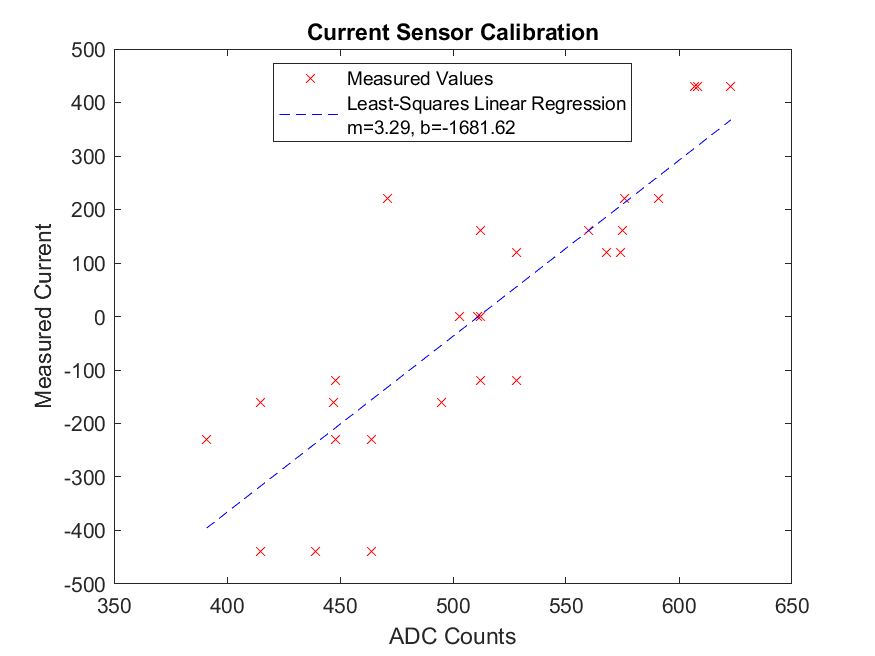
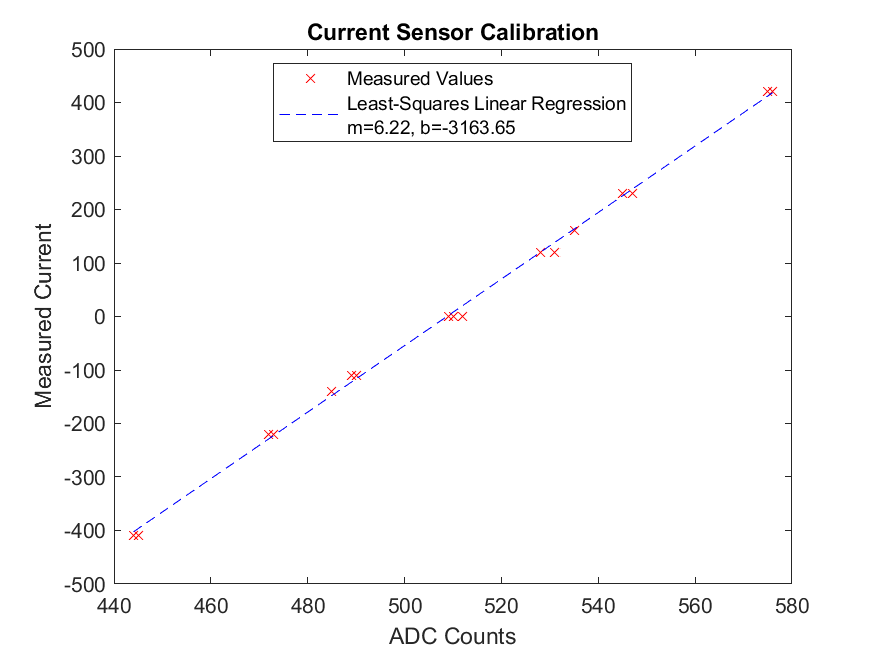
Implemented ITEST

diff --git a/motor_control_project/src/currentcontrol.c b/motor_control_project/src/currentcontrol.c
@@ -1,16 +1,25 @@
 #include "currentcontrol.h"                   
+#include "isense.h"                   
 #include "utilities.h"
 #include "NU32.h"
 #include <math.h>
 
-#define ITEST_I_REF_MAG_mA 200 
+#define ITEST_I_REFERENCE_MAG_mA 200 
+#define ITEST_ARRAY_LENGTH 100
+#define ITEST_SAMPLE_PERIOD (1.0/5000)
 
 static int PWMDutyCycleOCxRSValue = 0;
 static unsigned char PWMDutyCycleDirection = 0x0;
+
+static double proportionalGain = 0; // %/mA
+static double integralGain = 0; // %/(mA*seconds)
+static double lastError = 0; // mA
+static double integralError = 0; // mA*seconds
+
 static int ITESTCount = 0;
-static int ITESTIRefmA = ITEST_I_REF_MAG_mA;
-static double proportionalGain = 0;
-static double integralGain = 0;
+static double ITESTIReferencemA = ITEST_I_REFERENCE_MAG_mA;
+static double ITESTIActualArray[ITEST_ARRAY_LENGTH];
+static double ITESTIReferenceArray[ITEST_ARRAY_LENGTH];
 
 void __ISR(_TIMER_5_VECTOR, IPL5SOFT) Timer5ISR(void) { // INT step: the ISR
   switch (get_operating_mode())
@@ -22,28 +31,42 @@ void __ISR(_TIMER_5_VECTOR, IPL5SOFT) Timer5ISR(void) { // INT step: the ISR
       break;
     case PWM:
       // Set duty cyle to present PWM value
-      OC1RS = PWMDutyCycleOCxRSValue;
-      LATDbits.LATD1 = PWMDutyCycleDirection;
+      command_motor_pwm_and_direction();
       break;
     case ITEST:
       // PI current control test to track two full cycles of a +/- 200mA 100Hz square wave reference
-      
-      if (ITESTCount == 99) // Are done with the test
+      if (ITESTCount == 0) // Test begins
+      {
+        ITESTIReferencemA = ITEST_I_REFERENCE_MAG_mA;
+      }
+      else if (ITESTCount == 24 || ITESTCount==49 || ITESTCount==74) // Reference changes sign 
+      {
+        ITESTIReferencemA *= -1;
+      }
+
+      // Get measured current and update arrays for subsequent data processing/viz
+      double measuredCurrentmA = adc_current_sense_value_mA();
+      ITESTIReferenceArray[ITESTCount] = ITESTIReferencemA;
+      ITESTIActualArray[ITESTCount] = measuredCurrentmA;
+
+      // PI Control
+      double errmA = ITESTIReferencemA - measuredCurrentmA; // units of mA
+      integralError += errmA * ITEST_SAMPLE_PERIOD; // units of mA*seconds
+      double uEff = (errmA * proportionalGain) + (integralError * integralGain); // Control effort, proportionalGain in units of %/mA and integralGain in units of %/(mA*seconds), note % implies % duty cycle
+      // lastError = errmA; 
+
+      // Apply control effort
+      set_motor_pwm_and_direction_values(uEff);
+      command_motor_pwm_and_direction();
+
+      // Update count and see if done
+      ITESTCount++;
+      if (ITESTCount == 100) // Are done with the test
       {
         set_operating_mode(IDLE);
+        ITESTCount = 0;
         break;
       }
-
-      if (ITESTIRefmA == 0) // Test begins
-      {
-        ITESTIRefmA = ITEST_I_REF_MAG_mA;
-      }
-      else if (ITESTIRefmA == 25 || ITESTIRefmA==50 || ITESTIRefmA==75) // Reference changes sign 
-      {
-        ITESTIRefmA *= 1;
-      }
-
-      ITESTIRefmA++;
       break;
     case HOLD:
       break;
@@ -79,6 +102,12 @@ void set_motor_pwm_and_direction_values(double signed_duty_cycle)
     PWMDutyCycleOCxRSValue = (int) ((signed_duty_cycle/100) * (PR2+1));
     PWMDutyCycleDirection = 0x1;
   }
+}
+
+void command_motor_pwm_and_direction(void)
+{
+  OC1RS = PWMDutyCycleOCxRSValue;
+  LATDbits.LATD1 = PWMDutyCycleDirection;
 }
 
 void currentcontrol_init(void)
@@ -127,3 +156,19 @@ double get_current_integral_gain(void)
 {
   return integralGain;
 }
+
+double* get_ITESTIActualArray(void)
+{
+  return ITESTIActualArray;
+}
+
+double* get_ITESTIReferenceArray(void)
+{
+  return ITESTIReferenceArray;
+}
+
+int get_ITESTIArrayLength(void)
+{
+  return ITEST_ARRAY_LENGTH;
+}
+

diff --git a/motor_control_project/src/main.c b/motor_control_project/src/main.c
@@ -27,16 +27,6 @@ int main()
     NU32_ReadUART3(buffer,BUF_SIZE); // we expect the next character to be a menu command
     NU32_LED2 = 1;                   // clear the error LED
     switch (buffer[0]) {
-      // case 'd':                      
-      // {
-      //   // dummy command for demonstration purposes
-      //   int n = 0;
-      //   NU32_ReadUART3(buffer,BUF_SIZE);
-      //   sscanf(buffer, "%d", &n);
-      //   sprintf(buffer,"%d\r\n", n + 1); // return the number + 1
-      //   NU32_WriteUART3(buffer);
-      //   break;
-      // }
       case 'x':
       {
         // Add two numbers and give result
@@ -48,7 +38,7 @@ int main()
         sscanf(buffer, "%d", &n2);
         res = n1+n2;
         sprintf(buffer, "%d\r\n", res);
-        NU32_WriteUART3(buffer);
+        NU32_WriteUART3(buffer); // send to client
         break;
       }
       case 'c': 
@@ -76,15 +66,6 @@ int main()
         // Get ADC counts
         sprintf(buffer, "%d\r\n", adc_counts());
         NU32_WriteUART3(buffer); // send to client 
-
-        // sprintf(buffer, "%f\r\n", adc_voltage());
-        // NU32_WriteUART3(buffer); // send to client 
-
-        // sprintf(buffer, "%f\r\n", adc_current_sense_value_mA());
-        // NU32_WriteUART3(buffer); // send to client 
-
-        // Get averaged ADC counts
-        // NU32_WriteUART3("\r\n");
         break;
       }
       case 'b': 
@@ -99,11 +80,8 @@ int main()
         double pwm_val;
         NU32_ReadUART3(buffer,BUF_SIZE);
         sscanf(buffer, "%f", &pwm_val);
-
         set_motor_pwm_and_direction_values(pwm_val);
         set_operating_mode(PWM);
-        // sprintf(buffer, "PWM direction val is now %.3f and mode is PWM \r\n", pwm_val);
-        // NU32_WriteUART3(buffer);
         break;
       }
       case 'p': 
@@ -136,8 +114,30 @@ int main()
       case 'h': 
       {
         // Get current gains
-        sprintf(buffer, "%f %f\r\n", get_current_proportional_gain(), get_current_integral_gain());
+        sprintf(buffer, "%f\r\n", get_current_proportional_gain());
         NU32_WriteUART3(buffer); // send to client
+        sprintf(buffer, "%f\r\n", get_current_integral_gain());
+        NU32_WriteUART3(buffer); // send to client
+        break;
+      }
+      case 'k':
+      {
+        // Test current gains
+        set_operating_mode(ITEST);
+        // Wait for test to complete
+        while (get_operating_mode() != IDLE) { ; }
+        // Send results to user
+        int len = get_ITESTIArrayLength();
+        sprintf(buffer, "%d\r\n", len);
+        NU32_WriteUART3(buffer); // send to client
+        double *actual = get_ITESTIActualArray();
+        double *reference = get_ITESTIReferenceArray();
+        int i;
+        for (i=0; i < len; i++)
+        {
+          sprintf(buffer, "%f %f\r\n", reference[i], actual[i]);
+          NU32_WriteUART3(buffer); // send to client
+        }
         break;
       }
       case 'q':

diff --git a/motor_control_project/src/client.m b/motor_control_project/src/client.m
@@ -37,7 +37,8 @@ while ~has_quit
     % fprintf('     d: Dummy Command    q: Quit\n     x: Add Two Numbers Command');
     fprintf(['     q: Quit     x: Add Two Numbers Command\n     c: Read Encoder (counts)     d: Read Encoder (deg)     e: Reset Encoder\n' ...
         '     a: Read ADC (counts)     b: Read ADC Current Sense Value (mA)     f: Set Signed PWM\n' ...
-        '     p: Set mode to IDLE     r: Get current mode']);
+        '     p: Set mode to IDLE     r: Get current mode\n' ...
+        '     g: Set current control gains     h: Get current control gains     k: Test current gains\n']);
     % read the user's choice
     selection = input('\nENTER COMMAND: ', 's');
      
@@ -62,7 +63,6 @@ while ~has_quit
         case 'c'
             % Get encoder counts
             counts = fscanf(mySerial, '%d');
-            disp(counts)
             fprintf('The motor angle is %d counts.\n', counts)
         case 'e'
             % Reset encoder count to 32768
@@ -90,12 +90,25 @@ while ~has_quit
             % Get operating mode
             mode = fscanf(mySerial, '%s');
             fprintf('The operating mode is %s.\n', mode);
+        case 'g'
+            % Set current gains
+            prop_gain = input('Enter current control proportional gain: ');
+            fprintf(mySerial, '%f\n', prop_gain);
+            int_gain = input('Enter current control integral gain: ');
+            fprintf(mySerial, '%f\n', int_gain);
+        case 'h'
+            % Get current gains
+            prop_gain = fscanf(mySerial, '%f');
+            int_gain = fscanf(mySerial, '%f');
+            fprintf('Proportional gain: %.3f\nIntegral gain: %.3f\n', prop_gain, int_gain);
+        case 'k'
+            % Test current gains
+            fprintf('Running current gain test\n');
+            read_plot_matrix(mySerial);
         case 'q'
             has_quit = true;             % exit client
         otherwise
             fprintf('Invalid Selection %c\n', selection);
-        % TODO: Diagnose incoming data formatting issues, encoder and adc
-        % readings can be delayed/misformatted, need to handle this
     end
 end
 

diff --git a/motor_control_project/latex/final_project_ryandalby.tex b/motor_control_project/latex/final_project_ryandalby.tex
@@ -183,28 +183,54 @@ Calibration (input voltage )
 % \end{tabular}
 % \end{center}
 
+% \begin{center}
+% \begin{tabular}{|c|c|c|c|c|}
+%     \hline
+%     Input Voltage & R0 & Expected Current & Measured Current & ADC Counts \\
+%     \hline
+%     6V & 40 & 150 mA & 130 mA & 568 574 528 \\
+%     \hline
+%     -6V & 40 & -150 mA & -120 mA & 448 512 528\\
+%     \hline
+%     6V & 30 & 200 mA & 160 mA & 575 560 512 \\
+%     \hline
+%     -6V & 30 & -200 mA & -160 mA & 495 415 447 \\
+%     \hline
+%     6V & 20 & 300 mA & 220 mA & 591 471 576 \\
+%     \hline
+%     -6V & 20 & -300 mA & -230 mA & 391 464 448 \\
+%     \hline
+%     6V & 10 & 600 mA & 430 mA & 608 607 623 \\
+%     \hline
+%     -6V & 10 & -600 mA & -440 mA & 439 415 464 \\
+%     \hline
+%     0 V & 0 & 0 mA & 0 mA & 503 512 511 \\
+%     \hline
+% \end{tabular}
+% \end{center}
+
 \begin{center}
 \begin{tabular}{|c|c|c|c|c|}
     \hline
     Input Voltage & R0 & Expected Current & Measured Current & ADC Counts \\
     \hline
-    6V & 40 & 150 mA & 130 mA & 568 574 528 \\
+    6V & 40 & 150 mA & 120 mA & 528 531 528 \\
     \hline
-    -6V & 40 & -150 mA & -120 mA & 448 512 528\\
+    -6V & 40 & -150 mA & -110 mA & 490 489 489\\
     \hline
-    6V & 30 & 200 mA & 160 mA & 575 560 512 \\
+    6V & 30 & 200 mA & 160 mA & 535 535 535 \\
     \hline
-    -6V & 30 & -200 mA & -160 mA & 495 415 447 \\
+    -6V & 30 & -200 mA & -140 mA & 485 485 485 \\
     \hline
-    6V & 20 & 300 mA & 220 mA & 591 471 576 \\
+    6V & 20 & 300 mA & 230 mA & 545 545 547 \\
     \hline
-    -6V & 20 & -300 mA & -230 mA & 391 464 448 \\
+    -6V & 20 & -300 mA & -220 mA & 472 472 473 \\
     \hline
-    6V & 10 & 600 mA & 430 mA & 608 607 623 \\
+    6V & 10 & 600 mA & 420 mA & 576 576 576 \\
     \hline
-    -6V & 10 & -600 mA & -440 mA & 439 415 464 \\
+    -6V & 10 & -600 mA & -410 mA & 444 444 445 \\
     \hline
-    0 V & 0 & 0 mA & 0 mA & 503 512 511 \\
+    0 V & 0 & 0 mA & 0 mA & 510 509 512 \\
     \hline
 \end{tabular}
 \end{center}

diff --git a/motor_control_project/src/currentcontrol.h b/motor_control_project/src/currentcontrol.h
@@ -7,10 +7,17 @@ void currentcontrol_init(void);
 // Set the pwm duty cycle in percent and the direction based on the sign of the duty cycle value passed in. For when in 
 void set_motor_pwm_and_direction_values(double signed_duty_cycle);
 
+// Command the current pwm and direction values to the motor
+void command_motor_pwm_and_direction(void);
+
 void set_current_proportional_gain(double proportionalGainValue);
 double get_current_proportional_gain(void);
 
 void set_current_integral_gain(double integralGainValue);
 double get_current_integral_gain(void);
+
+double* get_ITESTIActualArray(void);
+
+double* get_ITESTIReferenceArray(void);
 
 #endif // CURRENTCONTROL_H

diff --git a/motor_control_project/src/read_plot_matrix.m b/motor_control_project/src/read_plot_matrix.m
@@ -14,7 +14,7 @@ function data = read_plot_matrix(mySerial)
   % compute the average error
   score = mean(abs(data(:,1)-data(:,2)));
   fprintf('\nAverage error: %5.1f mA\n',score);
-  title(sprintf('Average error: %5.1f mA',score));
+  title(sprintf('ITEST Plot\nAverage error: %5.1f mA',score));
   ylabel('Current (mA)');
   xlabel('Time (ms)');  
 end
